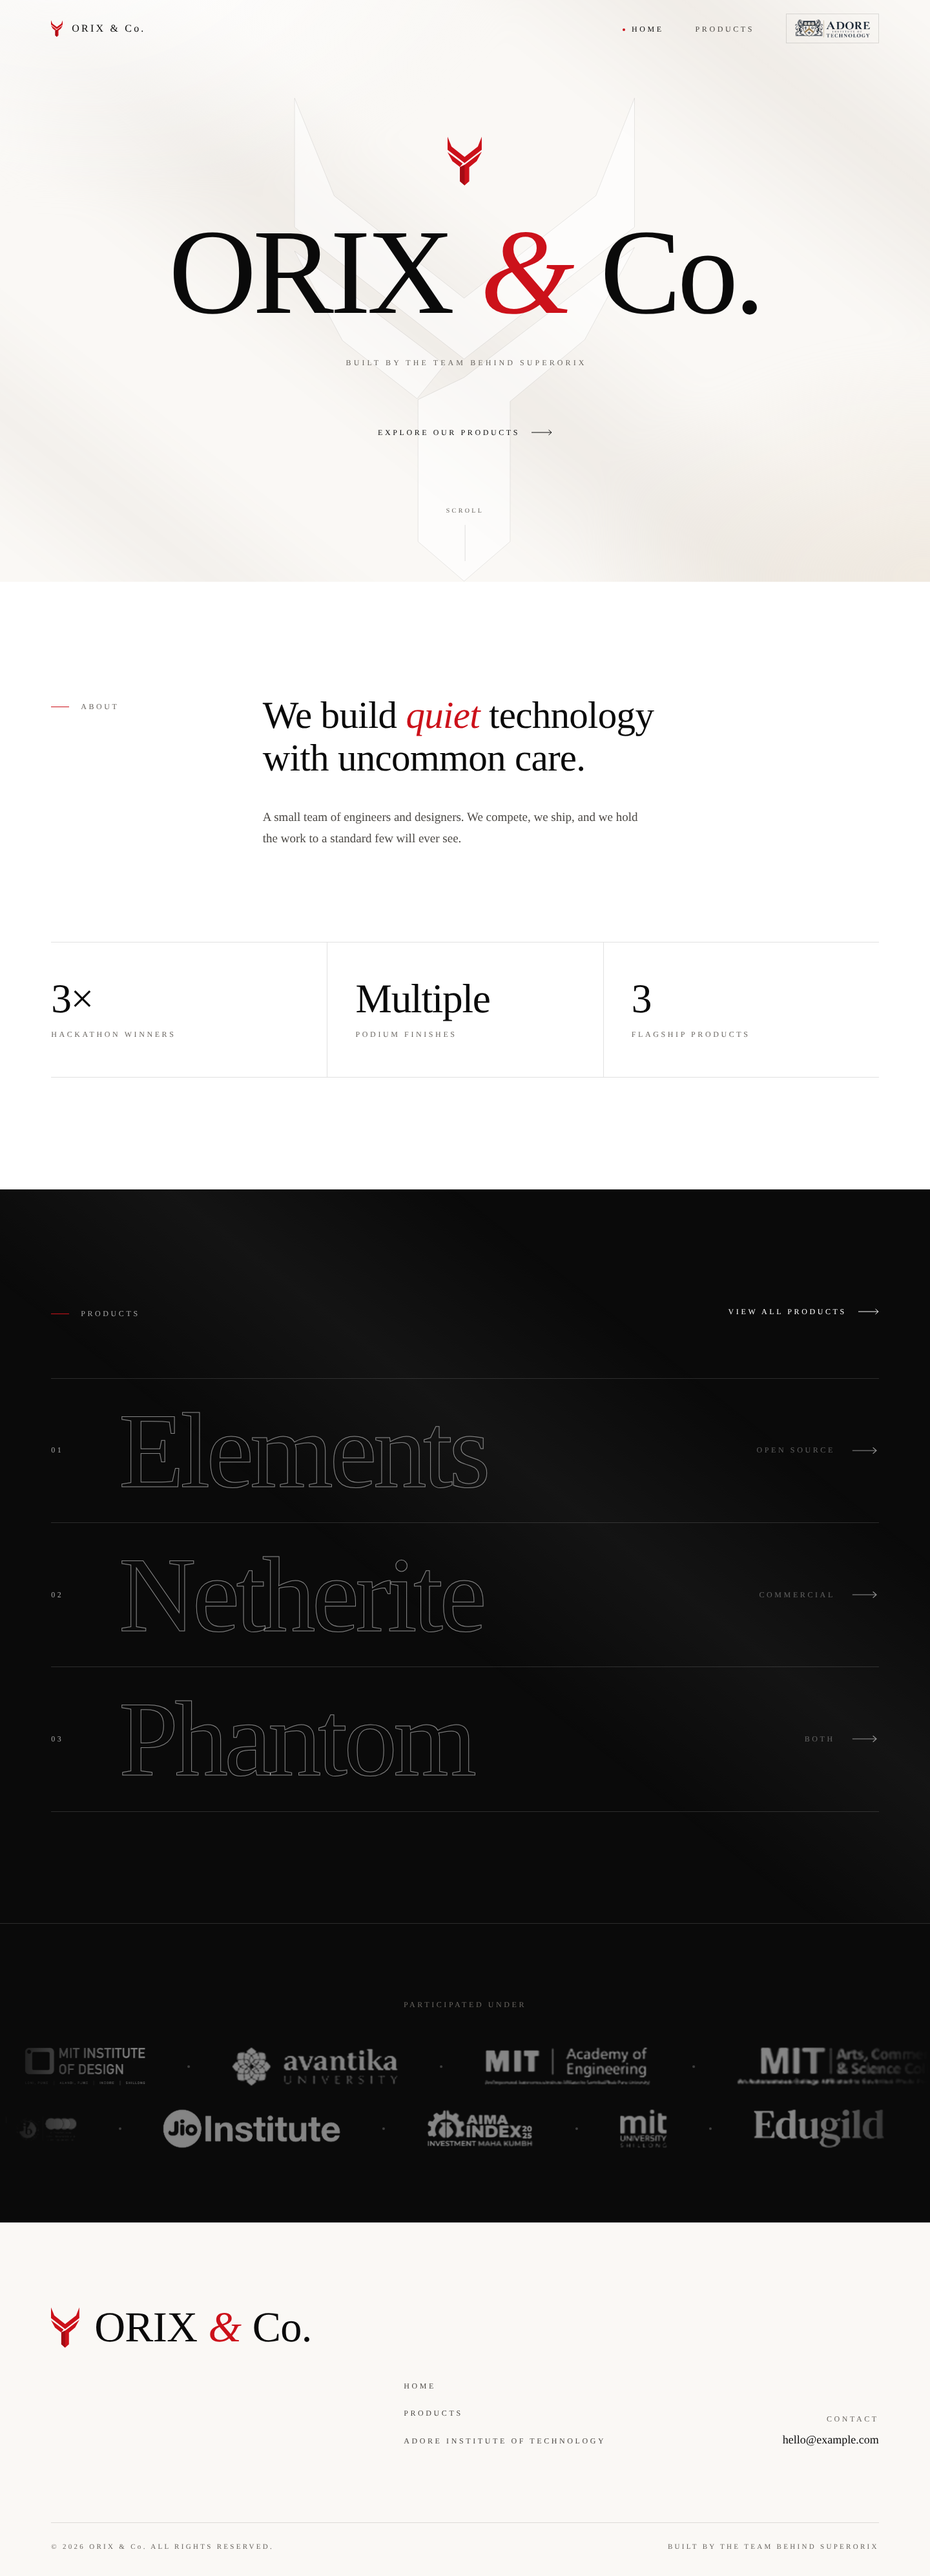
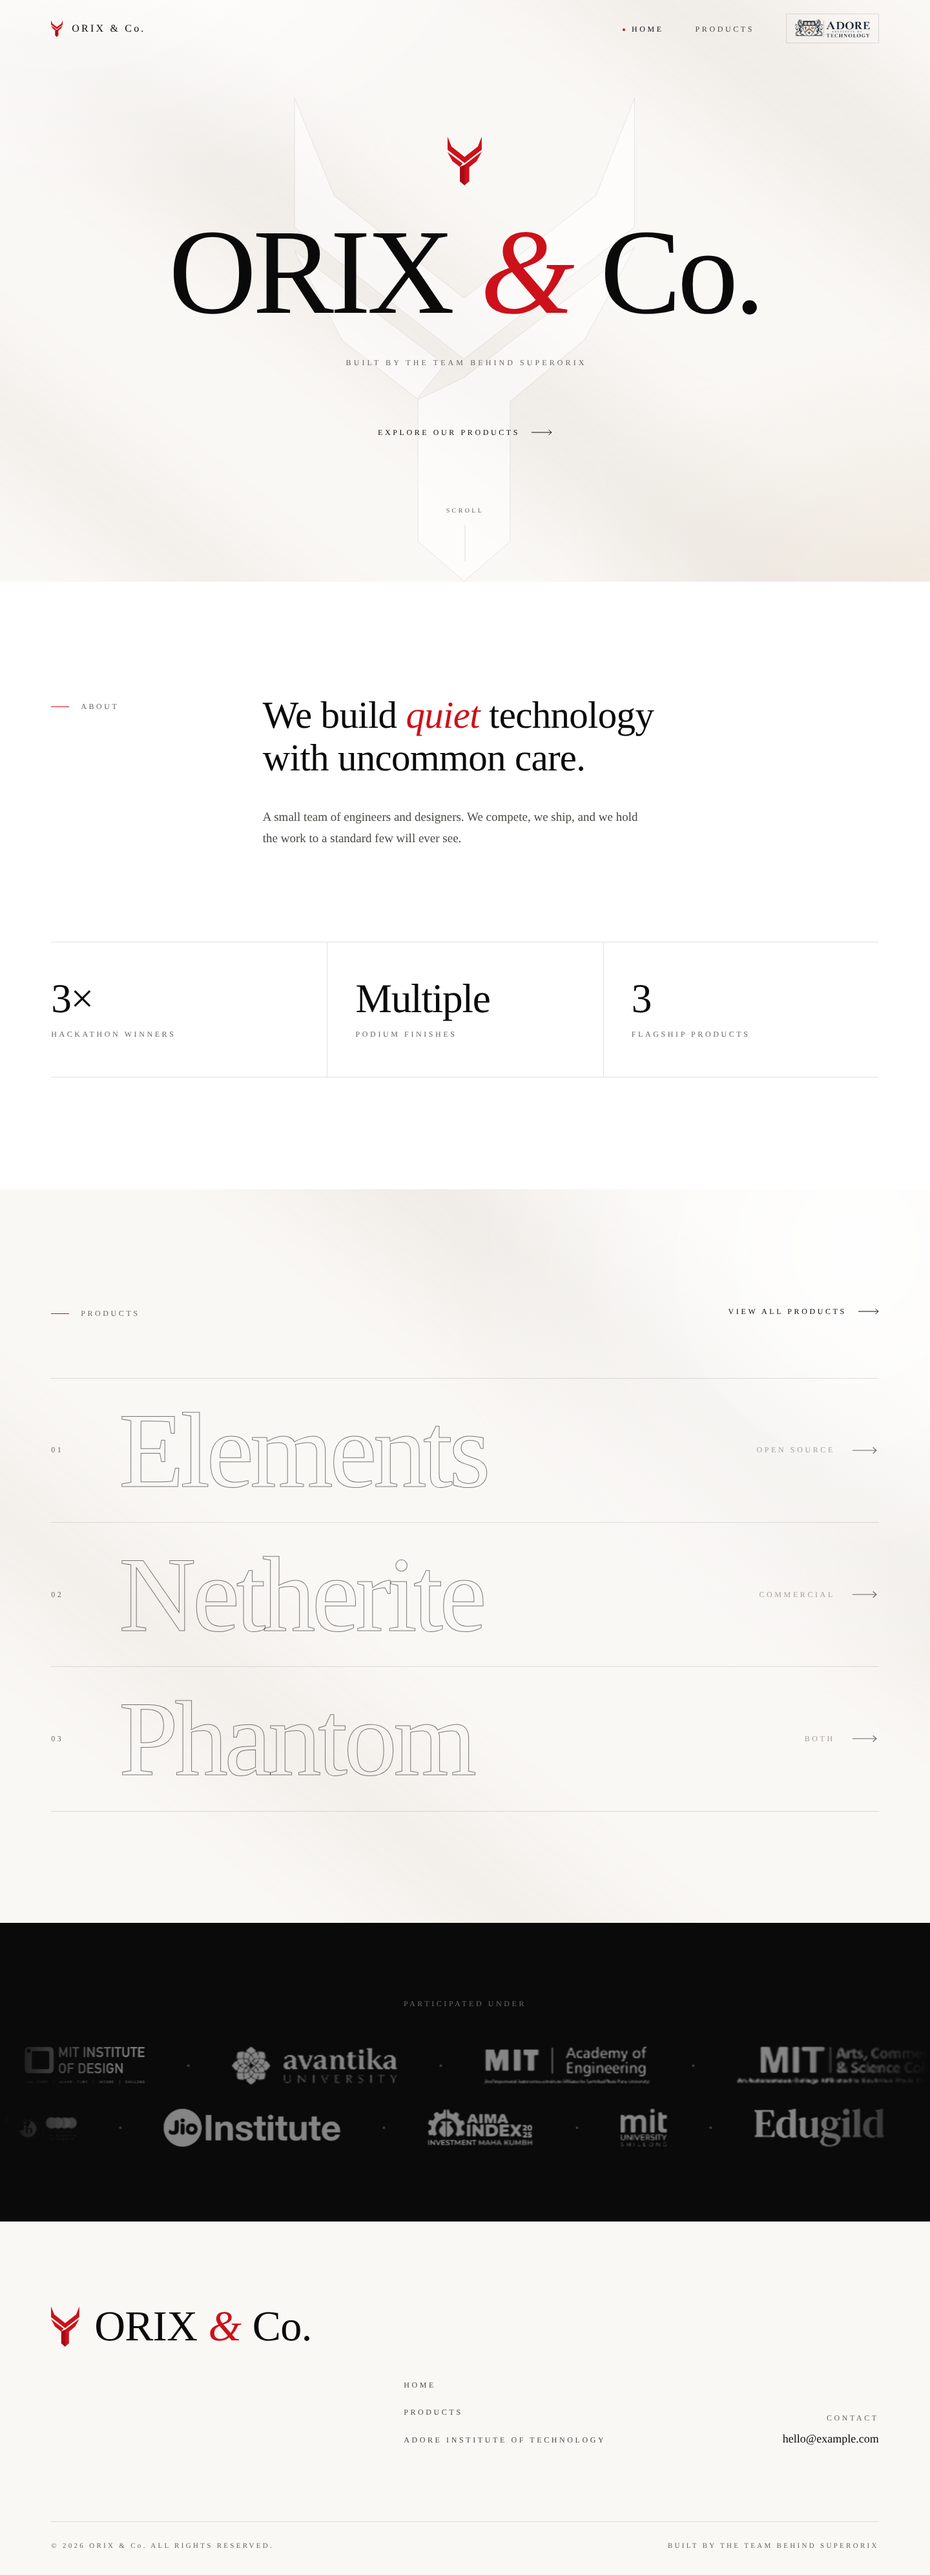
Home showcase: warm ivory background with soft diagonal light
Replaces the flat black background, which merged with the black partners
strip below. Names are outlined in ink and fill ink on hover.

Claude-Session: https://claude.ai/code/session_01LLF2qoMhDfz1JwG89VCezi

Changed region(s): [[0.0, 0.4357, 1.0, 0.747]]

diff --git a/style.css b/style.css
@@ -576,7 +576,6 @@ svg { display: block; }
 }
 
 /* ---------- Marquee ---------- */
-.showcase + .band { border-top: 1px solid var(--hair-dark); }
 .band {
   padding-block: clamp(72px, 8vw, 120px);
   background: var(--ink);
@@ -1103,25 +1102,26 @@ svg { display: block; }
 /* ---------- Home: product showcase (the hook) ---------- */
 .showcase {
   position: relative;
+  isolation: isolate;
   padding-block: var(--section);
-  background: var(--ink);
-  color: var(--on-dark);
+  background: var(--ivory);
+  color: var(--ink);
   overflow: hidden;
 }
 .showcase::before {
-  /* a slow sweep of light across the band, at the logo's diagonal */
+  /* the hero's soft diagonal light, at the logo's angle */
   content: "";
   position: absolute;
-  inset: -40% -20%;
+  inset: -20% -10%;
+  z-index: -1;
   pointer-events: none;
-  background: linear-gradient(218deg, transparent 40%, rgba(255, 255, 255, 0.045) 50%, transparent 60%);
-  animation: sweep 14s var(--ease-soft) infinite alternate;
+  background:
+    radial-gradient(50% 60% at 85% 20%, rgba(255, 255, 255, 0.9), transparent 70%),
+    linear-gradient(218deg,
+      transparent 22%, var(--shade) 32%, transparent 42%,
+      transparent 58%, rgba(110, 88, 64, 0.05) 67%, transparent 76%);
+  filter: blur(18px);
 }
-@keyframes sweep {
-  from { transform: translateX(-18%); }
-  to { transform: translateX(18%); }
-}
-.showcase .eyebrow { color: var(--on-dark-mute); }
 .showcase__head {
   position: relative;
   display: flex;
@@ -1130,9 +1130,8 @@ svg { display: block; }
   gap: 24px;
   margin-bottom: clamp(40px, 6vw, 88px);
 }
-.cta--light { color: var(--on-dark); }
 
-.showcase__list { position: relative; border-bottom: 1px solid var(--hair-dark); }
+.showcase__list { position: relative; border-bottom: 1px solid var(--hair); }
 .showcase__row {
   position: relative;
   display: grid;
@@ -1140,9 +1139,9 @@ svg { display: block; }
   align-items: center;
   gap: var(--col-gap);
   padding-block: clamp(14px, 2.2vw, 30px);
-  border-top: 1px solid var(--hair-dark);
+  border-top: 1px solid var(--hair);
   text-decoration: none;
-  color: var(--on-dark);
+  color: var(--ink);
   outline-offset: -1px;
 }
 .showcase__name {
@@ -1152,8 +1151,8 @@ svg { display: block; }
   white-space: nowrap;
   /* outlined type that fills with white on hover */
   color: transparent;
-  -webkit-text-stroke: 1px rgba(255, 255, 255, 0.5);
-  background: linear-gradient(90deg, var(--white) 50%, transparent 50%) 100% 0 / 200% 100% no-repeat;
+  -webkit-text-stroke: 1px rgba(10, 10, 10, 0.55);
+  background: linear-gradient(90deg, var(--ink) 50%, transparent 50%) 100% 0 / 200% 100% no-repeat;
   -webkit-background-clip: text;
   background-clip: text;
   transition: background-position 1s var(--ease), transform 1s var(--ease), -webkit-text-stroke-color 0.6s;
@@ -1162,16 +1161,16 @@ svg { display: block; }
   display: flex;
   align-items: center;
   gap: 24px;
-  opacity: 0.55;
+  opacity: 0.6;
   transition: opacity 0.6s var(--ease-soft);
 }
-.showcase__go { display: inline-flex; color: var(--on-dark); }
+.showcase__go { display: inline-flex; color: var(--ink); }
 .showcase__go .arrow { width: 44px; height: 12px; }
 
 .showcase__row:hover .showcase__name,
 .showcase__row:focus-visible .showcase__name {
   background-position: 0 0;
-  -webkit-text-stroke-color: var(--white);
+  -webkit-text-stroke-color: var(--ink);
   transform: translateX(clamp(8px, 1.4vw, 24px));
 }
 .showcase__row:hover .showcase__meta,
@@ -1181,7 +1180,7 @@ svg { display: block; }
 .showcase__row:hover .showcase__num,
 .showcase__row:focus-visible .showcase__num { color: var(--red); }
 /* dim the other rows while one is hovered */
-.showcase__list.is-hovering .showcase__row:not(:hover) .showcase__name { -webkit-text-stroke-color: rgba(255, 255, 255, 0.22); }
+.showcase__list.is-hovering .showcase__row:not(:hover) .showcase__name { -webkit-text-stroke-color: rgba(10, 10, 10, 0.16); }
 
 .showcase__preview {
   position: fixed;
@@ -1201,7 +1200,7 @@ svg { display: block; }
   inset: 0;
   aspect-ratio: auto;
   border-radius: 18px;
-  box-shadow: 0 0 0 1px rgba(255, 255, 255, 0.12), 0 40px 80px -30px rgba(0, 0, 0, 0.8);
+  box-shadow: 0 0 0 1px var(--hair), 0 40px 80px -30px rgba(10, 10, 10, 0.45);
   clip-path: inset(50% 50% 50% 50% round 18px);
   transition: clip-path 0.9s var(--ease);
 }
@@ -1210,7 +1209,7 @@ svg { display: block; }
 
 @media (hover: none), (pointer: coarse) {
   .showcase__preview { display: none; }
-  .showcase__name { color: var(--white); -webkit-text-stroke: 0; background: none; }
+  .showcase__name { color: var(--ink); -webkit-text-stroke: 0; background: none; }
 }
 
 /* ---------- Institute page: navy & gold from its crest ---------- */

diff --git a/index.html b/index.html
@@ -99,7 +99,7 @@
       <div class="container">
         <div class="showcase__head">
           <h2 class="eyebrow eyebrow--rule" id="showcase-title" data-c="home.showcase.label" data-reveal>Products</h2>
-          <a class="cta cta--light" href="products.html" data-href="home.showcase.href" data-reveal style="--d:120ms">
+          <a class="cta" href="products.html" data-href="home.showcase.href" data-reveal style="--d:120ms">
             <span class="cta__text" data-c="home.showcase.cta">View all products</span>
             <svg class="arrow" viewBox="0 0 32 10" aria-hidden="true" focusable="false"><path d="M0 5h31M26.5 1 31 5l-4.5 4"/></svg>
           </a>
